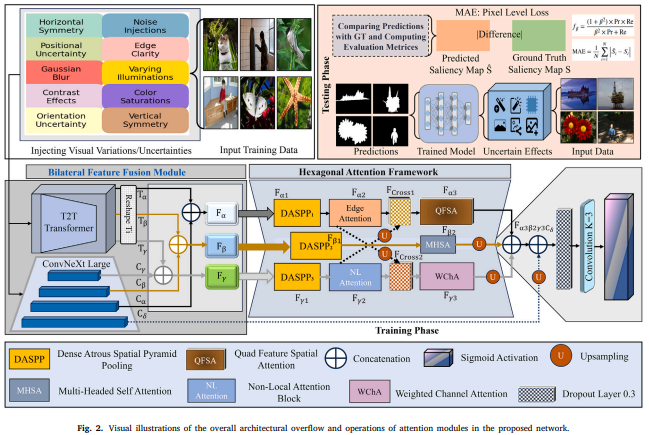
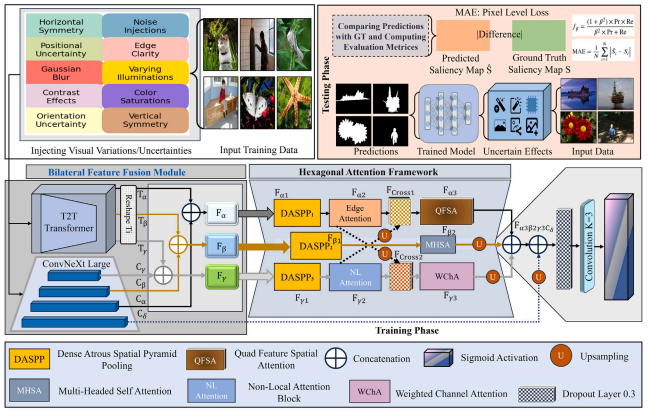
Changes

diff --git a/README.md b/README.md
@@ -49,7 +49,7 @@ Key contributions include:
 ---
 
 ## 🔄 Network Architecture
-
+Visual Illustration of the proposed network.
 ![BiFusHNet Architecture](Network.png)
 
 
